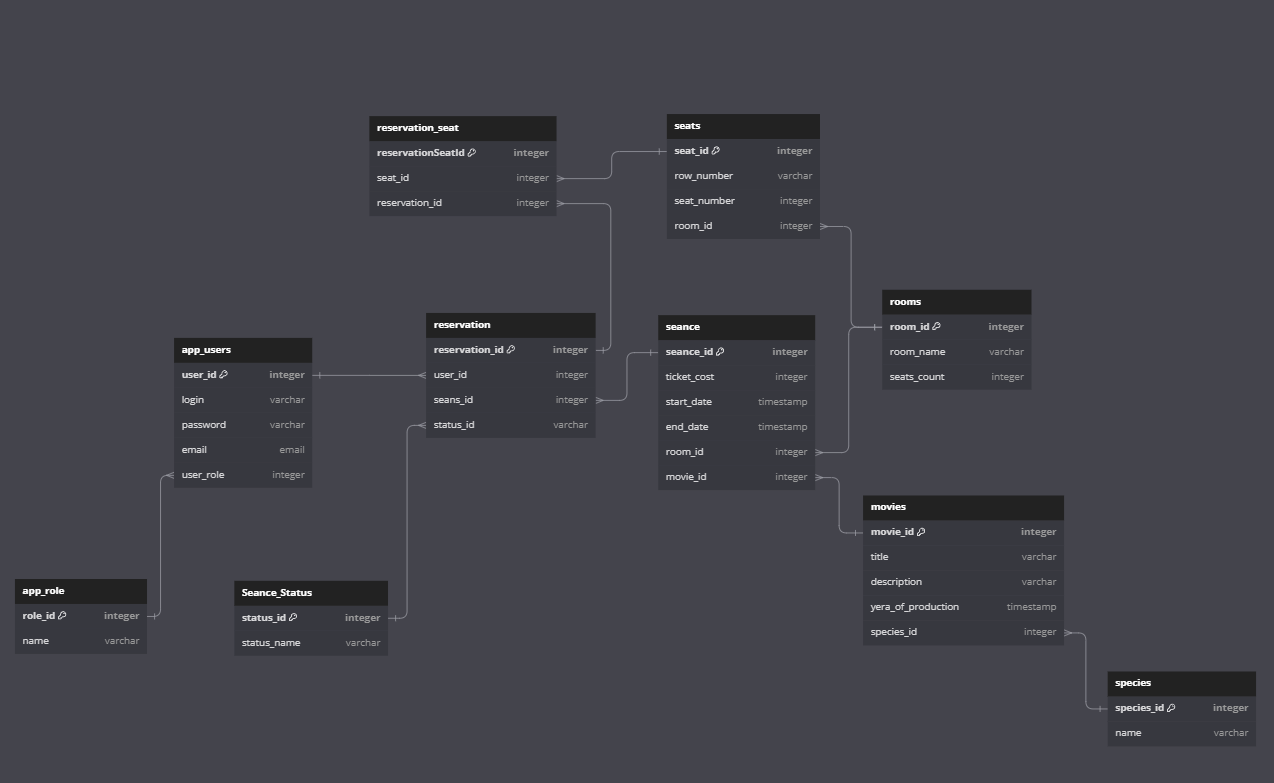
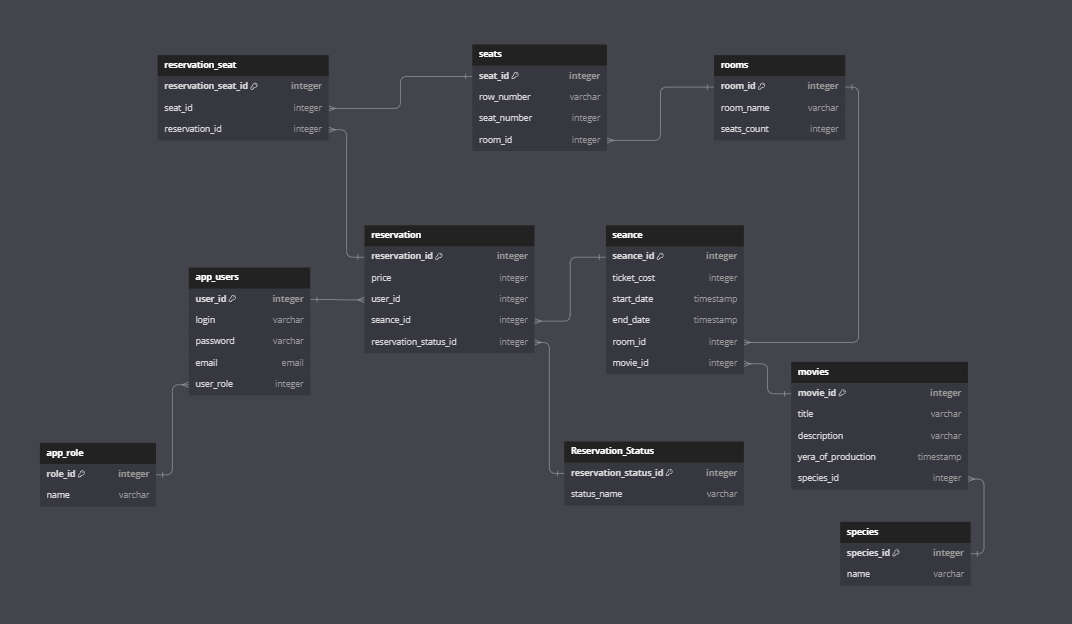
change db schema and code to generate

diff --git a/src/main/java/com/cinema/entity/ReservationStatus.java b/src/main/java/com/cinema/entity/ReservationStatus.java
@@ -16,8 +16,8 @@ public class ReservationStatus {
 
     @Id
     @GeneratedValue(strategy = GenerationType.IDENTITY)
-    @Column(name ="reservation_id")
-    private Integer reservationId;
+    @Column(name ="reservation_status_id")
+    private Integer reservationStatusId;
     private String statusName;
 
     public ReservationStatus(ReservationStatusSaveDto reservationStatusSaveDto){

diff --git a/src/main/java/com/cinema/entity/Reservation.java b/src/main/java/com/cinema/entity/Reservation.java
@@ -17,6 +17,7 @@ public class Reservation {
     @GeneratedValue(strategy = GenerationType.IDENTITY)
     @Column(name = "reservation_id")
     private Integer reservationId;
+    private Integer price;
     @ManyToOne
     @JoinColumn(name = "user_id")
     private AppUser appUser;
